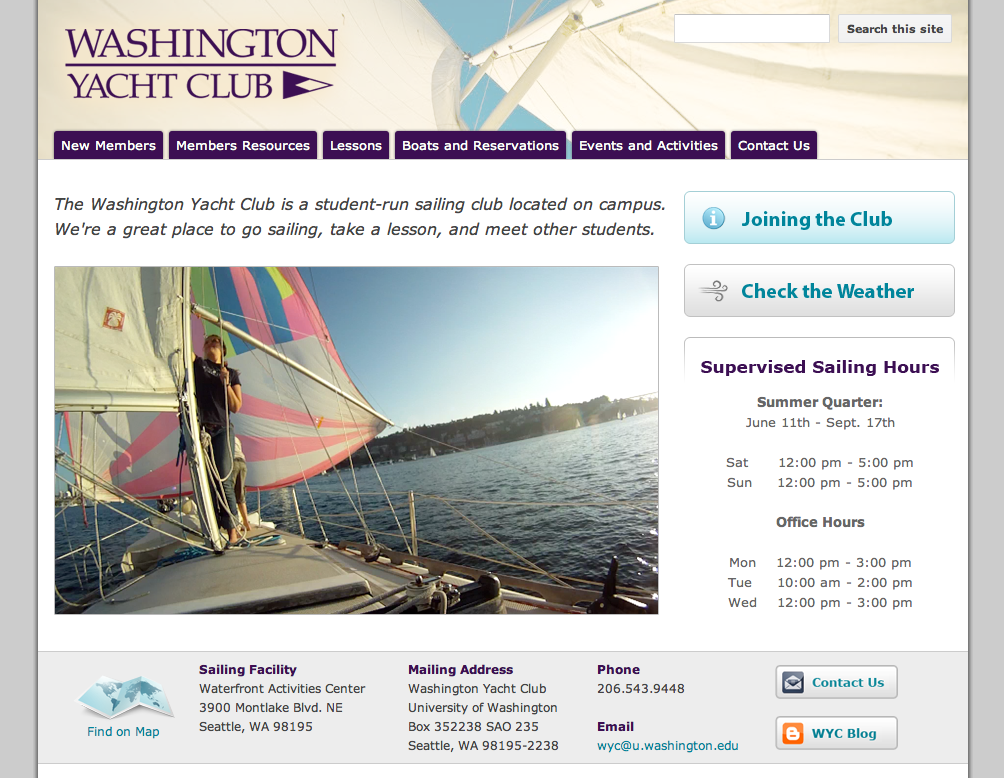
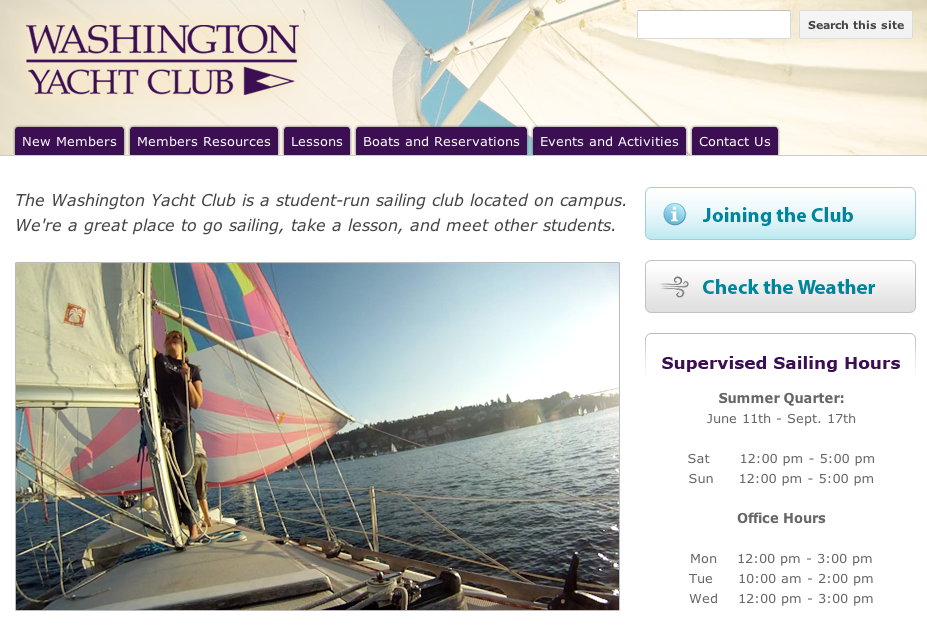
refactored structure of projects page

diff --git a/css/styles.css b/css/styles.css
@@ -13,29 +13,26 @@ body {
 	
 #header {
 	margin: 15px;
-	max-height: 50px;
+    margin-left: 20px;
+    max-height:37px;
 	}
 	
 #picture {
 	float: right;
 	position: relative;
-	vertical-align: top;
 	margin-top:-120px;
-	top: 125px;
+	top: 127px;
 	right: 1%;
 /*	padding: 10px;*/
-	border: 1px solid #444444;
-	background-color:white;
+	border: 1px solid #A0A0A0;
 	z-index: 1;
-	width: 12%;
+	width: 15%;
 	min-width: 90px;
 	}
 	
 #logo {
 	float:left;
 	position:relative;
-	margin-top: 5px;
-    margin-left:20px;
 }
 
 .nav {
@@ -46,9 +43,8 @@ body {
      background-image: url('../images/nav-norm.png');
      border: 1px solid #A0A0A0;
      background-repeat:repeat-x;
-     margin-bottom:20px;
-     margin-left:-3.5%;
-     width:107%;
+     margin-left:-4%;
+     width:128.5%;
     }
  
 	.nav ul {
@@ -95,8 +91,6 @@ body {
 #content {
 	text-align: left;
 	margin-top:75px;
-    margin-left:10px;
-	/*padding:10px;*/
     padding-bottom: 20px;
 	/*border:1px solid black;*/
 	}
@@ -119,26 +113,25 @@ body {
         color:#333333;
 		padding: 8px;
 		}
-		
-	
+
 	#content p {
-		font-size: 16px;
 		line-height: 21px;
 		text-align: left;
-		padding-bottom: 20px;
+		padding-bottom: 10px;
 		}
 		
 	#content li {
 		font-size: 14px;
-		line-height: 21px;
+        line-height: 21px;
 		letter-spacing: 0px;
 		text-align: left;
+        margin-left: 30px;
 		}
-			
-	#content ul li {
-		list-style: none;
-		list-style-image: url(images/bullet.png);
-		}
+
+	/*#content ul li {*/
+		/*list-style: none;*/
+		/*list-style-image: url(images/bullet.png);*/
+		/*}*/
 		
 	#content a {
 		color: #488AC7;
@@ -160,19 +153,24 @@ body {
 
 .project_row {
 	position:relative;
-	vertical-align:middle;
 	}
 
-	.project_row img.arrow {
-		margin-top:40px;
+	.project_row .arrow {
+        top:5em;
+        margin-left:-45px;
 		}
-		
-	.project_row img.thumb {
+
+	 .project_row .thumb{
+
+     }
+
+     .project_row img.thumb {
 		width: 275px;
 		border: 1px solid #A0A0A0;
     }
 	
-	.project_row p {
+	.project_row .description {
+        margin-top:10px;
 	}
 	
 /*#resume {
@@ -186,7 +184,7 @@ div.fadehover {
     }
 
     img.a {
-        position: absolute;
+        position: relative;
         left: 0;
         top: 0;
         z-index: 10;
@@ -199,9 +197,8 @@ div.fadehover {
         }
 
 .center{
-    margin-left:auto;
-    margin-right:auto;
-    width:70%;
+    display:block;
+    text-align: -webkit-center;
     }
 
 #footer {

diff --git a/css/960.css b/css/960.css
@@ -20,14 +20,14 @@
 .container_12 {
   margin-left: auto;
   margin-right: auto;
-  max-width: 970px;
-	min-width: 525px;
-	/*background-image: url('../images/12_col.gif');*/
-	background-color: white;
-	background-repeat: repeat-y;
-	border-left: 1px solid #A0A0A0;
-	border-right: 1px solid #A0A0A0;
-	border-bottom: 1px solid #A0A0A0;
+  max-width: 960px;
+  min-width: 525px;
+  /*background-image: url('../images/12_col.gif');*/
+  background-color: white;
+  background-repeat: repeat-y;
+  border-left: 1px solid #A0A0A0;
+  border-right: 1px solid #A0A0A0;
+  border-bottom: 1px solid #A0A0A0;
 	
 }
 
@@ -105,7 +105,7 @@
 }
 
 .container_12 .grid_7 {
-  width: 52.25%;
+  width: 56.25%;
 }
 
 .container_12 .grid_8 {

diff --git a/projects.php b/projects.php
@@ -19,21 +19,31 @@
         <div id="content">
 		
             <div class="project_row">
-                <div class="grid_12"><h3>Washington Yacht Club</h3></div>
 
-                <div class="grid_4">
-                    <img class='thumb' src='images/wyc.png'>
+                <div class="grid_4 center">
+                    <h3>Washington Yacht Club</h3>
+                    <img src="images/wyc_thumb.png" alt="" class="thumb">
                 </div>
 
-                <div class="grid_6">
-                    <p>Lorem ipsum dolor sit amet, consectetur adipiscing elit. Aenean a ligula libero. Nam sed dui et tellus pulvinar consequat et nec nulla. Etiam tempor aliquet tempor. Etiam elementum dui eget eros tempus vulputate. Class aptent taciti sociosqu ad litora torquent per conubia nostra, per inceptos himenaeos. Ut risus nisi, faucibus sed varius eget, vehicula ut diam. </p>
+                <div class="grid_7 description">
+                    <p>A class project whereby the main goal of which was to redesign an existing site using User Centered Research methods and principles</p>
+                    <p>Project involved the following deliverables:</p>
+                    <ul>
+                        <li>Personas</li>
+                        <li>Card Sort</li>
+                        <li>Information Architecture</li>
+                        <li>Wireframe</li>
+                        <li>Clickable Prototype</li>
+                        <li>Usability Test Scenarios</li>
+                        <li>Deployment Version</li>
+                    </ul>
                 </div>
 
-                <div class="grid_2">
-                    <div class="fadehover center">
-                        <a data-ftrans="slide" href='index.php'>
-                            <img src="images/arrow.png" alt="" class="a arrow">
-                            <img src="images/arrow_hover.png" alt="" class="b arrow">
+                <div class="grid_1">
+                    <div class="fadehover arrow">
+                        <a>
+                            <img src="images/arrow.png" alt="" class="a">
+                            <img src="images/arrow_hover.png" alt="" class="b">
                         </a>
                     </div>
                 </div>
@@ -48,21 +58,22 @@
 
 		
             <div class="project_row">
-                <div class="grid_12"><h3>The Language of Hands</h3></div>
 
-                <div class="grid_4">
-                    <center><img src='images/hands_thumb.png'>
+                <div class="grid_4 center">
+                    <h3>The Language of Hands</h3>
+                    <img src='images/hands_thumb.png'>
                 </div>
 
-                <div class="grid_6">
-                    <p>Lorem ipsum dolor sit amet, consectetur adipiscing elit. Aenean a ligula libero. Nam sed dui et tellus pulvinar consequat et nec nulla. Etiam tempor aliquet tempor. Etiam elementum dui eget eros tempus vulputate. Class aptent taciti sociosqu ad litora torquent per conubia nostra, per inceptos himenaeos. Ut risus nisi, faucibus sed varius eget, vehicula ut diam. </p>
+                <div class="grid_7 description">
+                    <p>The purpose of this project was to explore the embedded meaning of visual language in a particular context. </p>
+                    <p>The context chosen was that of hands, specifically the ways meaning is embedded within a person's choice of rings, nails, tattoos</p>
                 </div>
 
-                <div class="grid_2">
-                    <div class="fadehover center">
-                        <a data-ftrans="slide" href='index.php'>
-                            <img src="images/arrow.png" alt="" class="a arrow">
-                            <img src="images/arrow_hover.png" alt="" class="b arrow">
+                <div class="grid_1">
+                    <div class="fadehover arrow">
+                        <a>
+                            <img src="images/arrow.png" alt="" class="a">
+                            <img src="images/arrow_hover.png" alt="" class="b">
                         </a>
                     </div>
                 </div>
@@ -75,21 +86,21 @@
 
 
             <div class="project_row">
-                <div class="grid_12"><h3>Tool Tutor</h3></div>
 
-                <div class="grid_4">
-                    <center><img src='images/tool_thumb.png' width=150>
+                <div class="grid_4 center">
+                    <h3>Tool Tutor</h3>
+                    <img src='images/tool_thumb.png' width=150>
                 </div>
 
-                <div class="grid_6">
-                    <p>Lorem ipsum dolor sit amet, consectetur adipiscing elit. Aenean a ligula libero. Nam sed dui et tellus pulvinar consequat et nec nulla. Etiam tempor aliquet tempor. Etiam elementum dui eget eros tempus vulputate. Class aptent taciti sociosqu ad litora torquent per conubia nostra, per inceptos himenaeos. Ut risus nisi, faucibus sed varius eget, vehicula ut diam. </p>
+                <div class="grid_7 description">
+                    <p>This project was developed for the purpose of exploring interactions </p>
                 </div>
 
-                <div class="grid_2">
-                    <div class="fadehover center">
-                        <a data-ftrans="slide" href='index.php'>
-                            <img src="images/arrow.png" alt="" class="a arrow">
-                            <img src="images/arrow_hover.png" alt="" class="b arrow">
+                <div class="grid_1">
+                    <div class="fadehover arrow">
+                        <a>
+                            <img src="images/arrow.png" alt="" class="a ">
+                            <img src="images/arrow_hover.png" alt="" class="b ">
                         </a>
                     </div>
                 </div>
@@ -102,21 +113,21 @@
 
 
             <div class="project_row">
-                <div class="grid_12"><h3>Market Maven</h3></div>
 
-                <div class="grid_4">
+                <div class="grid_4 center">
+                    <h3>Market Maven</h3>
                     <img class='thumb' src='images/market_thumb.png'>
                 </div>
 
-                <div class="grid_6">
-                    <p>Lorem ipsum dolor sit amet, consectetur adipiscing elit. Aenean a ligula libero. Nam sed dui et tellus pulvinar consequat et nec nulla. Etiam tempor aliquet tempor. Etiam elementum dui eget eros tempus vulputate. Class aptent taciti sociosqu ad litora torquent per conubia nostra, per inceptos himenaeos. Ut risus nisi, faucibus sed varius eget, vehicula ut diam. </p>
+                <div class="grid_7 description">
+                    <p></p>
                 </div>
 
-                <div class="grid_2">
-                    <div class="fadehover center">
-                        <a data-ftrans="slide" href='index.php'>
-                            <img src="images/arrow.png" alt="" class="a arrow">
-                            <img src="images/arrow_hover.png" alt="" class="b arrow">
+                <div class="grid_1">
+                    <div class="fadehover arrow">
+                        <a>
+                            <img src="images/arrow.png" alt="" class="a">
+                            <img src="images/arrow_hover.png" alt="" class="b">
                         </a>
                     </div>
                 </div>
@@ -129,21 +140,21 @@
 
 
             <div class="project_row">
-                <div class="grid_12"><h3>Wood Crafts</h3></div>
 
-                <div class="grid_4">
+                <div class="grid_4 center">
+                    <h3>Wood Crafts</h3>
                     <img class='thumb' src='images/cribbage_thumb.png'>
                 </div>
 
-                <div class="grid_6">
-                    <p>Lorem ipsum dolor sit amet, consectetur adipiscing elit. Aenean a ligula libero. Nam sed dui et tellus pulvinar consequat et nec nulla. Etiam tempor aliquet tempor. Etiam elementum dui eget eros tempus vulputate. Class aptent taciti sociosqu ad litora torquent per conubia nostra, per inceptos himenaeos. Ut risus nisi, faucibus sed varius eget, vehicula ut diam. </p>
+                <div class="grid_7 description">
+                    <p></p>
                 </div>
 
-                <div class="grid_2">
-                    <div class="fadehover center">
-                        <a data-ftrans="slide" href='index.php'>
-                            <img src="images/arrow.png" alt="" class="a arrow">
-                            <img src="images/arrow_hover.png" alt="" class="b arrow">
+                <div class="grid_1">
+                    <div class="fadehover arrow">
+                        <a>
+                            <img src="images/arrow.png" alt="" class="a">
+                            <img src="images/arrow_hover.png" alt="" class="b">
                         </a>
                     </div>
                 </div>

diff --git a/resume.php b/resume.php
@@ -18,7 +18,11 @@
         <!-- Begin Content -->
         <div id="content">
 
-            <div><a href="resume.pdf" target="_blank"><img width=50px style="vertical-align:middle;" src='images/pdf.png'>Click here to download PDF<a><br><br></div>
+            <div class="grid_12 center">
+                <a href="resume.pdf" target="_blank">Click here to download PDF</a>
+            </div>
+
+            <div class="clear"></div><br>
 
             <div class="grid_12">
                 <center><object data="resume.pdf" type="application/pdf" width="89%" height="1070px"></object>

diff --git a/includes/header.php b/includes/header.php
@@ -1,10 +1,11 @@
 <!-- Begin Header -->
 <div id="header">
 
-		<a href="index.php"><img id="logo" src="images/logo.png"></a>
+    <a href="index.php"><img id="logo" src="images/logo.png"></a>
 
-		<img id="picture" src="images/face.jpg" alt="Me in montana"/>
+    <?php if ($nav == 'about') { print '<img id="picture" src="images/face.jpg" alt="Me in montana"/>'; } ?>
 
 	<div class="clear"></div>
+
 </div>
 <!-- End Header -->

diff --git a/includes/head.php b/includes/head.php
@@ -6,7 +6,6 @@
 
 <!-- Begin Scripts -->
 <script type="text/javascript" language="javascript" src="js/script.js"></script>
-<script type="text/javascript" src="js/fasw.transitions.min.js"></script>
 <script type='text/javascript' src='js/jquery-1.8.2.min.js'></script>
 
 <script type='text/javascript'>

diff --git a/includes/nav.php b/includes/nav.php
@@ -1,5 +1,5 @@
 <!-- Begin Navigation -->
-<div class="grid_12">
+<div class="grid_10">
     <div class="nav">
         <ul id="nav">
             <li <?php if ($nav == 'about') { print 'value="1"'; } ?>>      <a href="index.php">About</a></li>
